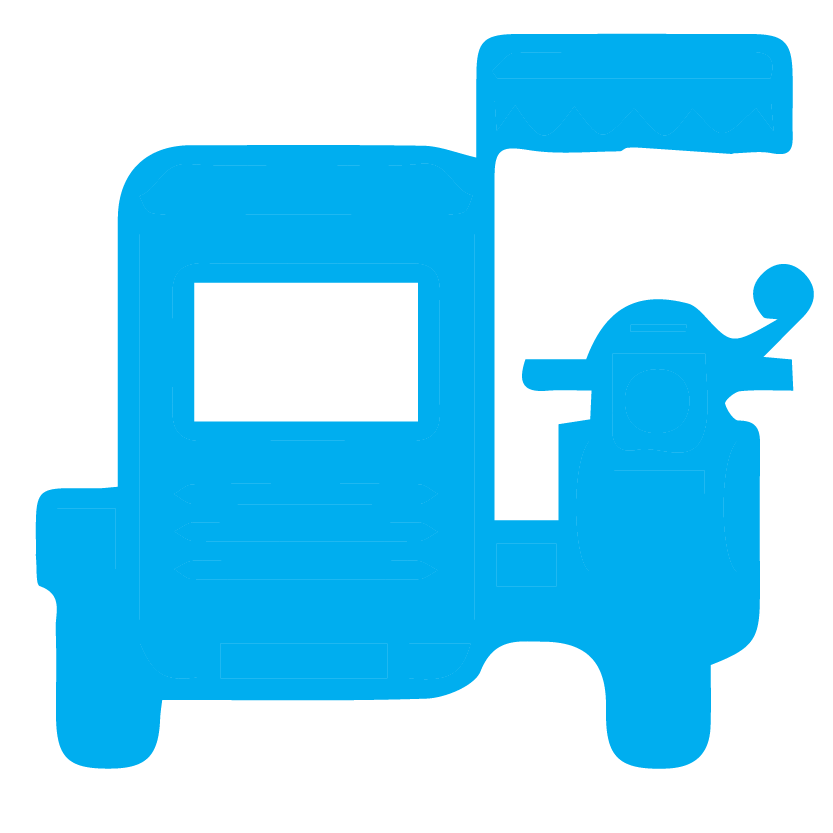
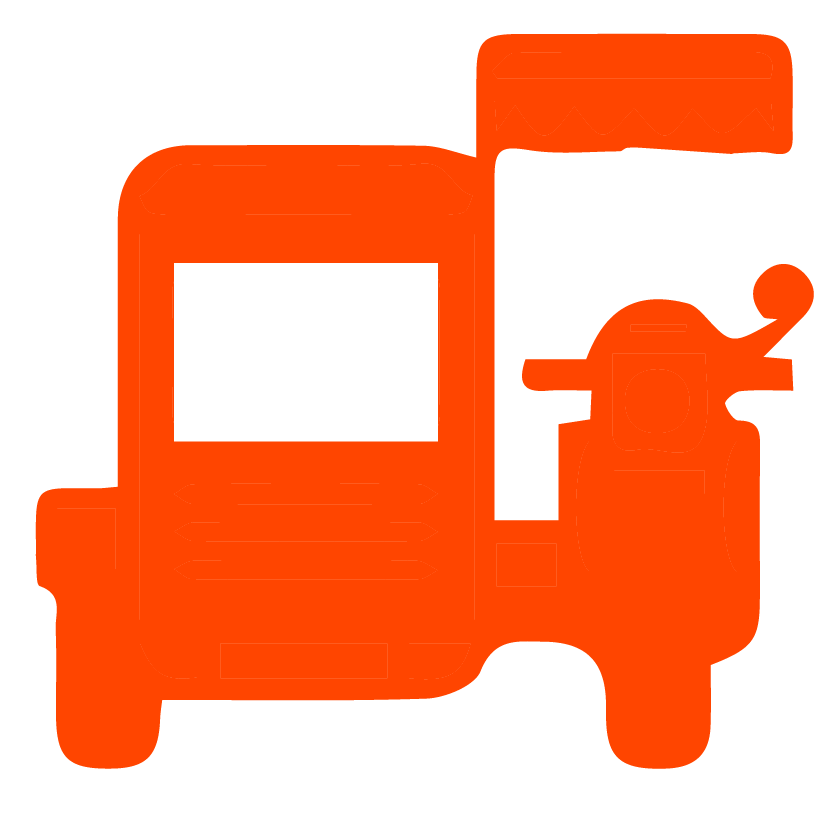
f

diff --git a/src/pages/details/details.ts b/src/pages/details/details.ts
@@ -1,5 +1,7 @@
 import { Component, ViewChild, ElementRef } from '@angular/core';
 import { NavController, NavParams, AlertController } from 'ionic-angular';
+import { AngularFireDatabase, FirebaseListObservable } from 'angularfire2/database-deprecated';
+import { FirebaseListFactoryOpts } from 'angularfire2/database-deprecated/interfaces';
 
 declare var google;
 
@@ -8,6 +10,11 @@ declare var google;
   templateUrl: 'details.html'
 })
 export class DetailsPage {
+  sTrip: FirebaseListObservable<any>;
+  slegWalk: FirebaseListObservable<any>;
+  slegTransit: FirebaseListObservable<any>;
+
+  email;
   geocoder;
   markers;
   address;
@@ -30,12 +37,18 @@ export class DetailsPage {
   drop;
   map: any;
   @ViewChild('map') mapElement: ElementRef;
-    constructor(public navCtrl: NavController, public navParams: NavParams, public alertCtrl: AlertController){
+    constructor(public navCtrl: NavController, public navParams: NavParams, public alertCtrl: AlertController, angFire: AngularFireDatabase){
+      this.email = this.navParams.get("email");
       this.index = this.navParams.get("i");
       this.trip = this.navParams.get("trip");
       this.legWalk = this.navParams.get("legW");
       this.legTransit = this.navParams.get("legT");
       this.address = this.navParams.get('address');
+
+      this.sTrip = angFire.list('/trip');
+      this.slegWalk = angFire.list('/legWalk');
+      this.slegTransit = angFire.list('/legTransit');
+
       this.markers = [];
       this.geocoder = new google.maps.Geocoder;
       this.description = [{
@@ -222,7 +235,7 @@ export class DetailsPage {
             }
             else if(this.legTransit[k].transMode=="TODA"){
               this.decode(this.legTransit[k].legGeom);
-              color = '#D52BFB';
+              color = '#FF4500';
               this.drawSnappedPolyline(color)
             }
             else{
@@ -547,7 +560,20 @@ export class DetailsPage {
           {
             text: 'Yes',
             handler: () => {
+              this.sTrip.push({
+                email: this.email,
+                id: this.trip[this.index].id,
+                transfer: this.trip[this.index].transfer,
+                fare: this.trip[this.index].fare,
+                totalWalkDistance: this.trip[this.index].totalWalkDistance,
+                totaldistance: this.trip[this.index].totaldistance,
+                legs: this.trip[this.index].legs,
+                totalTime: this.trip[this.index].totalTime,
+                roundtrip: this.trip[this.index].roundtrip
+              });
+              
               console.log('Route saved!');
+              
             }
           }
         ]

diff --git a/src/pages/home/home.ts b/src/pages/home/home.ts
@@ -1,11 +1,11 @@
 import { Component, ViewChild, ElementRef, NgZone } from '@angular/core';
-import { NavController, ModalController } from 'ionic-angular';
+import { NavController, ModalController, NavParams } from 'ionic-angular';
 
 import { AngularFireAuth } from "angularfire2/auth";
 import { Geolocation } from '@ionic-native/geolocation';
 import { RemoteServiceProvider } from "../../providers/remote-service/remote-service"
 
-import { MytripPage } from '../myTrips/mytrip';
+import { MytripPage } from '../mytrip/mytrip';
 import { SettingsPage } from '../settings/settings';
 import { LoginPage } from '../login/login';
 import { DetailsPage } from '../details/details';
@@ -16,9 +16,10 @@ declare var google;
 @Component({
   selector: 'page-home',
   templateUrl: 'home.html',
-  providers: [RemoteServiceProvider] 
+  providers: [RemoteServiceProvider]
 })
 export class HomePage {
+  email;
   address;
   geocoder;
   GoogleAutocomplete;
@@ -85,7 +86,9 @@ export class HomePage {
     public navCtrl: NavController,
     public zone: NgZone,
     public rsp: RemoteServiceProvider,
-    public modCtrl: ModalController) {
+    public modCtrl: ModalController,
+    public navParams: NavParams) {
+      this.email = this.navParams.get('email');
       this.GoogleAutocomplete = new google.maps.places.AutocompleteService();
       this.autocompleteItems1 = [];
       this.autocompleteItems2= [];
@@ -1195,7 +1198,7 @@ export class HomePage {
     let legW: any;
     let legT: any;
     trip = this.trip, legW = this.legWalk, legT  = this.legTransit;
-    this.navCtrl.push(DetailsPage, {"i": i, "trip": trip, "legW": legW, "legT": legT, "address": this.address}).catch( err => {
+    this.navCtrl.push(DetailsPage, { "email": this.email, "i": i, "trip": trip, "legW": legW, "legT": legT, "address": this.address }).catch( err => {
       console.log(err)});
   }
 }

diff --git a/src/app/app.module.ts b/src/app/app.module.ts
@@ -6,8 +6,8 @@ import { SplashScreen } from '@ionic-native/splash-screen';
 import { StatusBar } from '@ionic-native/status-bar';
 
 import { AngularFireModule } from 'angularfire2';
-import { AngularFireAuth } from 'angularfire2/auth';
-import { AngularFireAuthModule } from 'angularfire2/auth';
+import { AngularFireAuth, AngularFireAuthModule} from 'angularfire2/auth';
+import { AngularFireDatabaseModule } from 'angularfire2/database';
 import { Geolocation } from '@ionic-native/geolocation';
 
 import { MyApp } from './app.component';
@@ -20,7 +20,7 @@ import { DetailsPage } from '../pages/details/details';
 import { RemoteServiceProvider } from '../providers/remote-service/remote-service';
 
 import { GooglePlus } from '@ionic-native/google-plus';
-import firebase from 'firebase';
+import * as firebase from 'firebase';
 import { Facebook } from '@ionic-native/facebook';
 
 export const FIREBASE_CONF = {
@@ -49,7 +49,8 @@ firebase.initializeApp(FIREBASE_CONF)
     IonicModule.forRoot(MyApp),
     HttpModule,
     AngularFireModule.initializeApp(FIREBASE_CONF),
-    AngularFireAuthModule
+    AngularFireAuthModule,
+    AngularFireDatabaseModule
   ],
   bootstrap: [IonicApp],
   entryComponents: [
@@ -66,6 +67,7 @@ firebase.initializeApp(FIREBASE_CONF)
     SplashScreen,
     {provide: ErrorHandler, useClass: IonicErrorHandler},
     AngularFireAuth,
+    AngularFireDatabaseModule,
     Geolocation,
     RemoteServiceProvider,
     GooglePlus,

diff --git a/src/providers/remote-service/remote-service.ts b/src/providers/remote-service/remote-service.ts
@@ -22,7 +22,7 @@ export class RemoteServiceProvider {
   constructor(public http: Http) {
   }
   load(origin, dest){
-    var url = 'http://192.168.1.14:8080/otp/routers/default/plan?fromPlace='+origin+'&toPlace='+dest+'&date=2017/01/09&time=11:00:00&mode=TRANSIT%2CWALK&numItineraries=5&maxWalkDistance=1000&arriveBy=false&wheelchair=false';
+    var url = 'http://13.71.136.189:8080/otp/routers/default/plan?fromPlace='+origin+'&toPlace='+dest+'&date=2017/01/09&time=11:00:00&mode=TRANSIT%2CWALK&numItineraries=5&maxWalkDistance=1000&arriveBy=false&wheelchair=false';
     var response = this.http.get(url).map(res => res.json());
     return response;
   }

diff --git a/src/pages/mytrip/mytrip.ts b/src/pages/mytrip/mytrip.ts
@@ -1,5 +1,6 @@
 import { Component } from '@angular/core';
 import { NavController } from 'ionic-angular';
+import { AngularFireDatabase, FirebaseListObservable } from 'angularfire2/database';
 
 @Component({
     selector: 'page-mytrip',
@@ -7,7 +8,11 @@ import { NavController } from 'ionic-angular';
 })
 
 export class MytripPage {
-    
-    constructor(public navCtrl: NavController) {}
-    
+    trip: FirebaseListObservable<any>;
+    constructor(public navCtrl: NavController, angFire: AngularFireDatabase) {
+        this.trip = angFire.database.list('/trip');
+    }
+    ionViewDidLoad(){
+        console.log(this.trip);
+    }
 }

diff --git a/www/index.html b/www/index.html
@@ -1,9 +1,6 @@
 <!DOCTYPE html>
 <html lang="en" dir="ltr">
 <head>
-  <script data-ionic="inject">
-    (function(w){var i=w.Ionic=w.Ionic||{};i.version='3.9.2';i.angular='5.0.1';i.staticDir='build/';})(window);
-  </script>
   <meta charset="UTF-8">
   <title>Ionic App</title>
   <meta name="viewport" content="viewport-fit=cover, width=device-width, initial-scale=1.0, minimum-scale=1.0, maximum-scale=1.0, user-scalable=no">

diff --git a/src/pages/details/details.html b/src/pages/details/details.html
@@ -44,7 +44,7 @@
       <ion-row>
         <ion-col>
           <p>Travel Summary:</p>
-          <p>Estimated Time: {{trip[index].fare }} min</p>
+          <p>Estimated Time: {{trip[index].totalTime }} min</p>
           <p>Total Fare: P{{ trip[index].fare }}</p>
           <p>Distance: {{ trip[index].totaldistance }} km</p>
           <p>Walk Distance: {{ trip[index].totalWalkDistance }} km</p>

diff --git a/src/pages/login/login.ts b/src/pages/login/login.ts
@@ -26,7 +26,7 @@ export class LoginPage {
   	async signIn(user: User){
       this.afAuth.auth.signInWithEmailAndPassword(user.email, user.password)
       .then(res => {
-        this.navCtrl.setRoot(HomePage);
+        this.navCtrl.setRoot(HomePage, { "email" : user.email });
       }, err => {
         let alert = this.alertCtrl.create({
           title: 'Login Failed!',
